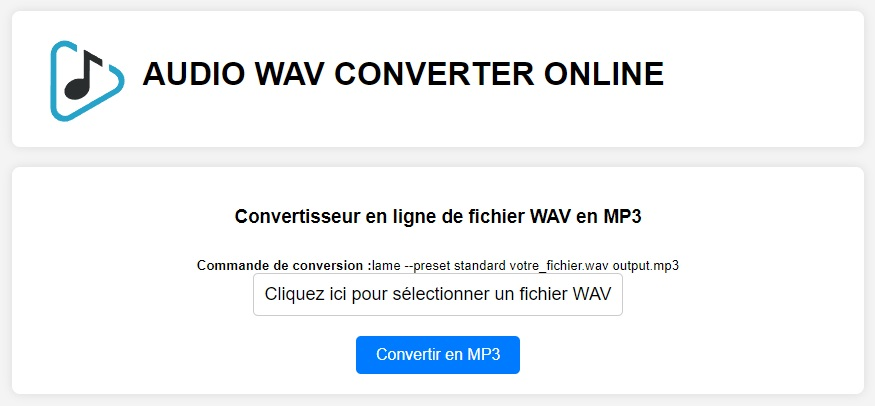
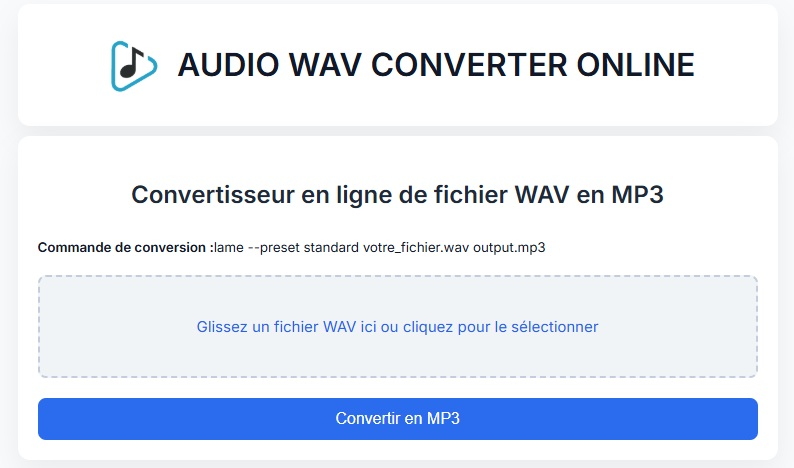
modification de style

diff --git a/.docker/server_http/www/public/css/style.css b/.docker/server_http/www/public/css/style.css
@@ -1,93 +1,140 @@
 body {
-    font-family: Arial, sans-serif;
-    margin: 0;
-    padding: 0;
-    background-color: #f4f4f4;
-  }
-  
-  .container {
-    width: 80%;
-    margin: 20px auto;
-    background-color: #fff;
-    padding: 20px;
-    border-radius: 8px;
-    box-shadow: 0 0 10px rgba(0, 0, 0, 0.1);
-  }
+  font-family: 'Inter', 'Segoe UI', sans-serif;
+  background-color: #f9fafb;
+  margin: 0;
+  padding: 0;
+  color: #111827;
+}
+.container-header {
+  display: flex;
+  align-items: center;        /* centre verticalement le texte et l'image */
+  gap: 15px;                  /* espace entre l'image et le titre */
+  justify-content: center;    /* centre horizontalement tout l'ensemble */
+  flex-direction: row;        /* assure l'alignement horizontal */
+}
+.container-header img {
+  height: 60px;
+  width: auto;
+}
+.container {
+  max-width: 720px;
+  margin: 10px auto;
+  background: #ffffff;
+  padding: 20px;
+  border-radius: 12px;
+  box-shadow: 0 12px 30px rgba(0, 0, 0, 0.06);
+}
 
-  .error {
-    width: 80%;
-    margin: 5px auto;
-    color: #721c24;
-    background-color: #f8d7da;
-    border-color: #f5c6cb;
-    padding: 20px;
-    border-radius: 8px;
-    box-shadow: 0 0 10px rgba(0, 0, 0, 0.1);
-  }
- 
-  a, a:active, a:hover, a:visited {
-      color: #155724;
-  }
-  .success {
-    width: 80%;
-    margin: 5px auto;
-    color: #155724;
-    background-color: #d4edda;
-    border-color: #c3e6cb;
-    padding: 20px;
-    border-radius: 8px;
-    box-shadow: 0 0 10px rgba(0, 0, 0, 0.1);
-  }
+h3 {
+  font-size: 1.5rem;
+  text-align: center;
+  margin-bottom: 30px;
+  font-weight: 600;
+  color: #1f2937;
+}
 
-  h1, h3 {
-    vertical-align: middle;
-    text-align: center;
-    margin-bottom: 30px;
-  }
 
-  .container-header {
-    display: flex;
-    align-items: center;
-  }
-  
-  .container-header img {
-    margin-right: 10px; /* Espacement entre l'image et le titre */
-  }
-  
-  form {
-    display: flex;
-    flex-direction: column;
-    align-items: center;
-  }
-  
-  .file-input {
-    margin-bottom: 20px;
-    padding: 10px;
-    border: 1px solid #ccc;
-    border-radius: 5px;
-  }
-  
-  label {
-    font-size: 18px;
-    margin-bottom: 5px;
-  }
-  
-  input[type="file"] {
+h4 {
+  font-size: 1.2rem;
+  text-align: center;
+  margin:5px;
+  margin-bottom: 10px;
+  font-weight: 600;
+  color: #1f2937;
+}
 
-    display:none;
-  }
-  
-  button {
-    padding: 10px 20px;
-    font-size: 16px;
-    background-color: #007bff;
-    color: #fff;
-    border: none;
-    border-radius: 5px;
-    cursor: pointer;
-    transition: background-color 0.3s;
-  }
-  
-  button:hover {
-    background-color: #0056b3;
-  }
+form {
+  display: flex;
+  flex-direction: column;
+  gap: 20px;
+}
+
+.file-input label {
+  display: block;
+  padding: 40px;
+  border: 2px dashed #d1d5db;
+  background-color: #f3f4f6;
+  border-radius: 8px;
+  text-align: center;
+  color: #6b7280;
+  cursor: pointer;
+  transition: border-color 0.3s, background-color 0.3s;
+  font-size: 15px;
+}
+
+.file-input label:hover {
+  border-color: #3b82f6;
+  background-color: #e0f2fe;
+  color: #2563eb;
+}
+
+input[type="file"] {
+  display: none;
+}
+
+button {
+  padding: 12px 24px;
+  font-size: 16px;
+  font-weight: 500;
+  background-color: #3b82f6;
+  color: white;
+  border: none;
+  border-radius: 8px;
+  cursor: pointer;
+  transition: background-color 0.3s ease;
+}
+
+button:hover {
+  background-color: #2563eb;
+}
+
+.success, .error {
+  max-width: 520px;
+  margin: 20px auto;
+  padding: 16px 20px;
+  border-radius: 10px;
+  font-weight: 500;
+  font-size: 15px;
+  display: flex;
+  align-items: center;
+  gap: 10px;
+  box-shadow: 0 4px 12px rgba(0, 0, 0, 0.05);
+}
+
+.success {
+  background-color: #ecfdf5;
+  color: #065f46;
+  border: 1px solid #34d399;
+}
+
+.error {
+  background-color: #fef2f2;
+  color: #991b1b;
+  border: 1px solid #f87171;
+}
+
+a {
+  color: #2563eb;
+  text-decoration: underline;
+  font-weight: 500;
+}
+
+a:hover {
+  text-decoration: none;
+}
+
+pre {
+  background-color: #1f2937;
+  color: #f9fafb;
+  padding: 16px;
+  border-radius: 8px;
+  font-size: 13px;
+  overflow: auto;
+  max-height: 200px;
+}
+
+#drop-zone.highlight {
+  background-color: #dbeafe;
+  border-color: #2563eb;
+  color: #1e3a8a;
+}
